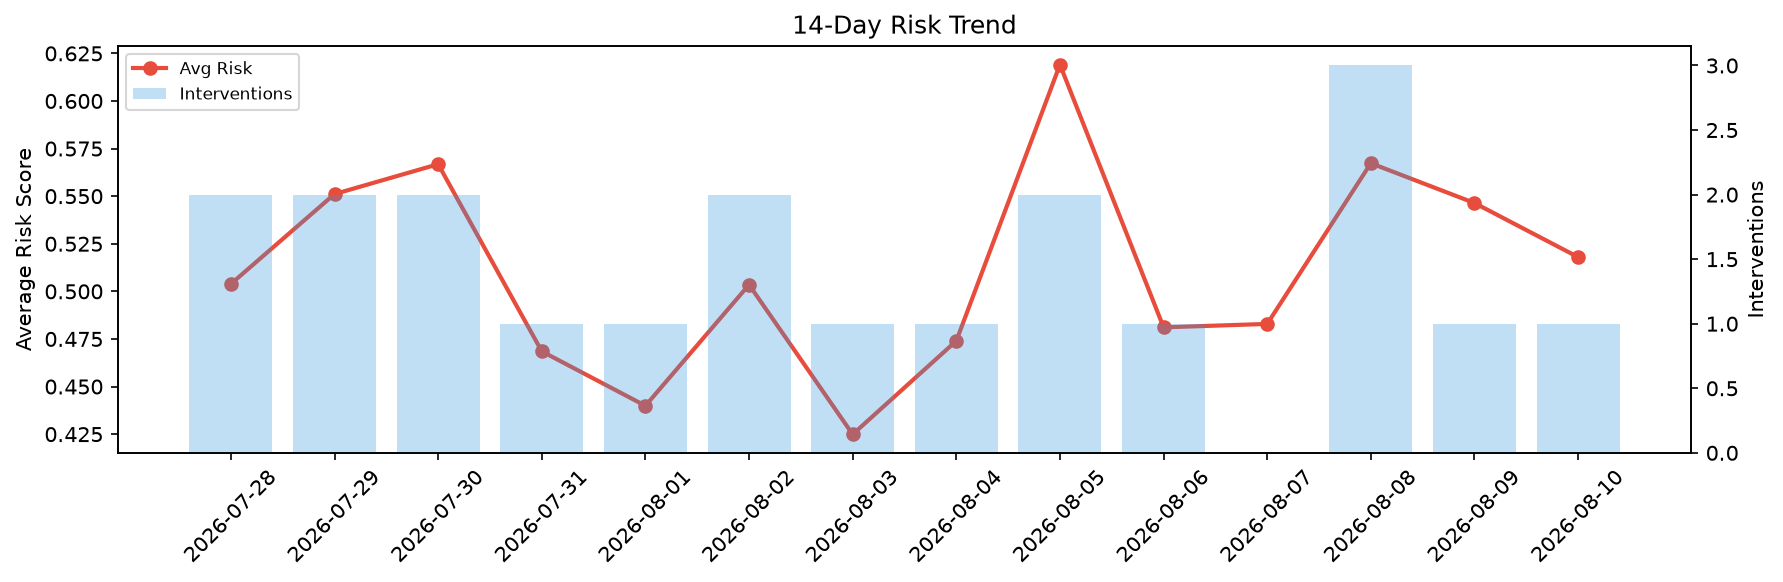
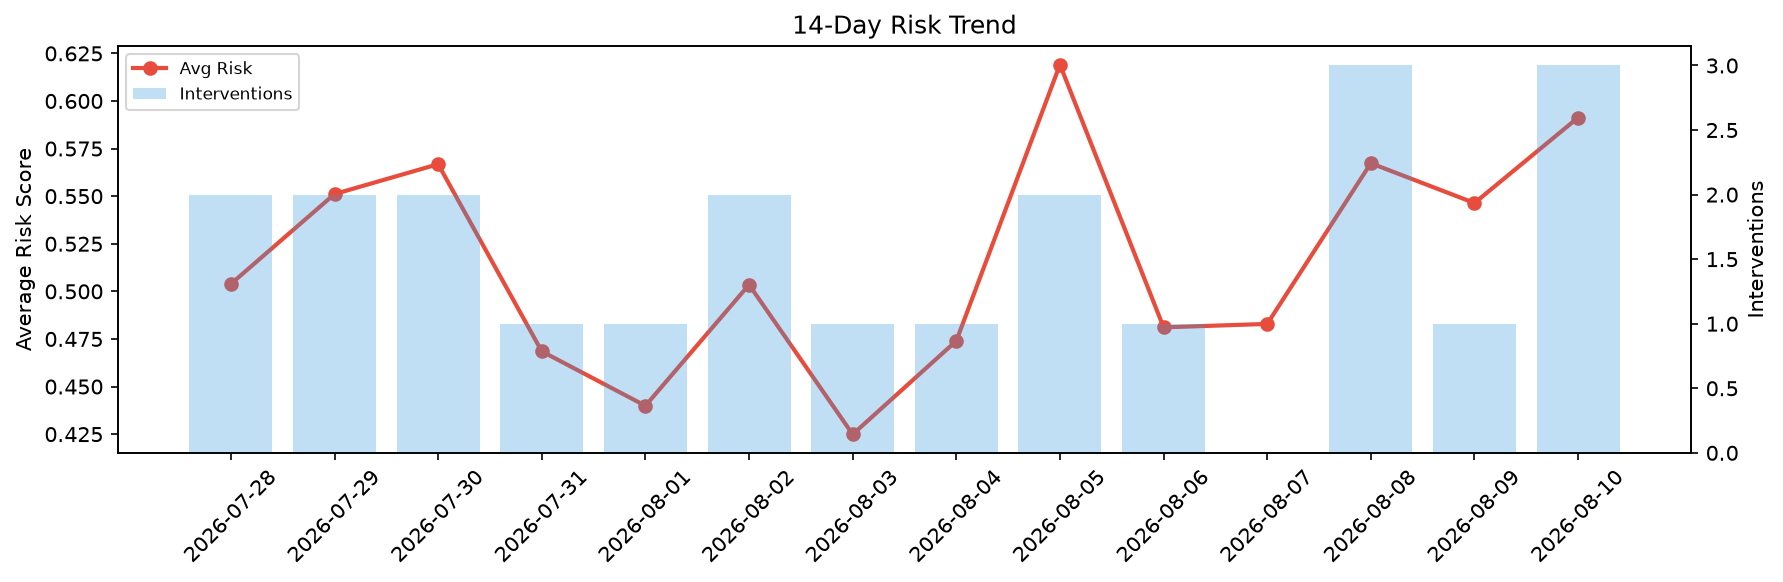
agent-improvement: daily cycle 2026-08-10T21:00

Changed region(s): [[0.8329, 0.0928, 0.9254, 0.5567]]

diff --git a/logs/2026-08-10.md b/logs/2026-08-10.md
@@ -1,6 +1,6 @@
 # Agent Improvement Report — 2026-08-10
 
-**Cycle ID:** `f49c06e4` | **Avg Risk:** 0.518 | **Interventions:** 1/4
+**Cycle ID:** `6e42f0e2` | **Avg Risk:** 0.5913 | **Interventions:** 3/4
 
 ![Dashboard](2026-08-10_dashboard.png)
 
@@ -10,18 +10,18 @@
 
 | Domain | Risk Score | Decision | Alerts |
 |--------|-----------|----------|--------|
-| code_review | 0.5072 | monitor | complexity |
-| incident_response | 0.3326 | monitor | none |
-| data_pipeline | 0.579 | monitor | volume_anomaly |
-| deployment | 0.6531 | intervene | rollback_rate |
+| code_review | 0.6321 | intervene | coverage |
+| incident_response | 0.6121 | intervene | none |
+| data_pipeline | 0.4778 | monitor | none |
+| deployment | 0.6432 | intervene | rollback_rate |
 
 ## Delta vs Yesterday
 
 | Domain | Today | Yesterday | Change |
 |--------|-------|-----------|--------|
-| code_review | 0.5072 | 0.8067 | 📉 -37.1% |
-| incident_response | 0.3326 | 0.4383 | 📉 -24.1% |
-| data_pipeline | 0.579 | 0.3794 | 📈 52.6% |
-| deployment | 0.6531 | 0.561 | 📈 16.4% |
+| code_review | 0.6321 | 0.8067 | 📉 -21.6% |
+| incident_response | 0.6121 | 0.4383 | 📈 39.7% |
+| data_pipeline | 0.4778 | 0.3794 | 📈 25.9% |
+| deployment | 0.6432 | 0.561 | 📈 14.7% |
 
 **Refinement:** `{'adjustment': 'tighten_thresholds', 'trend': 'degrading', 'window': 4}`
